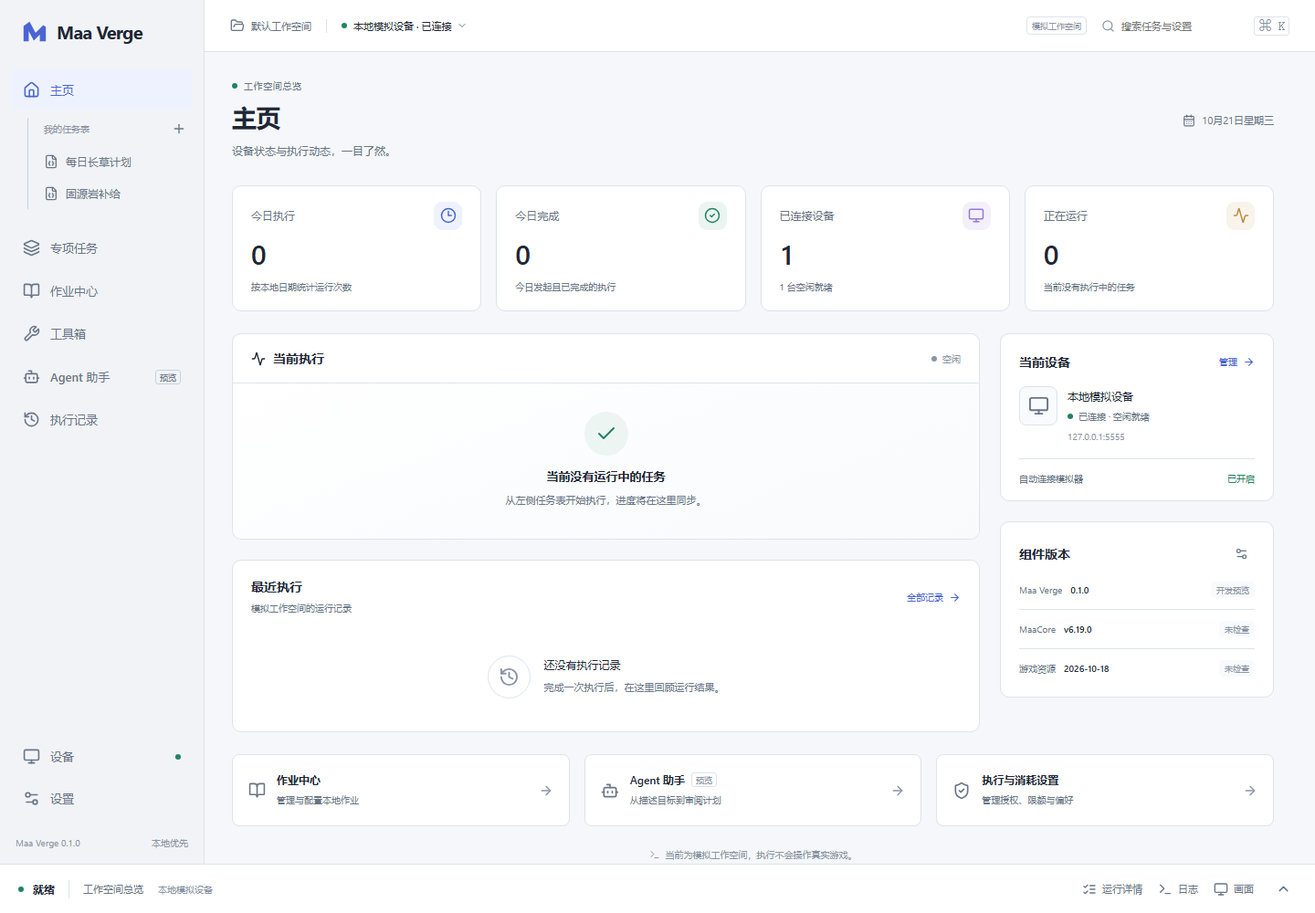
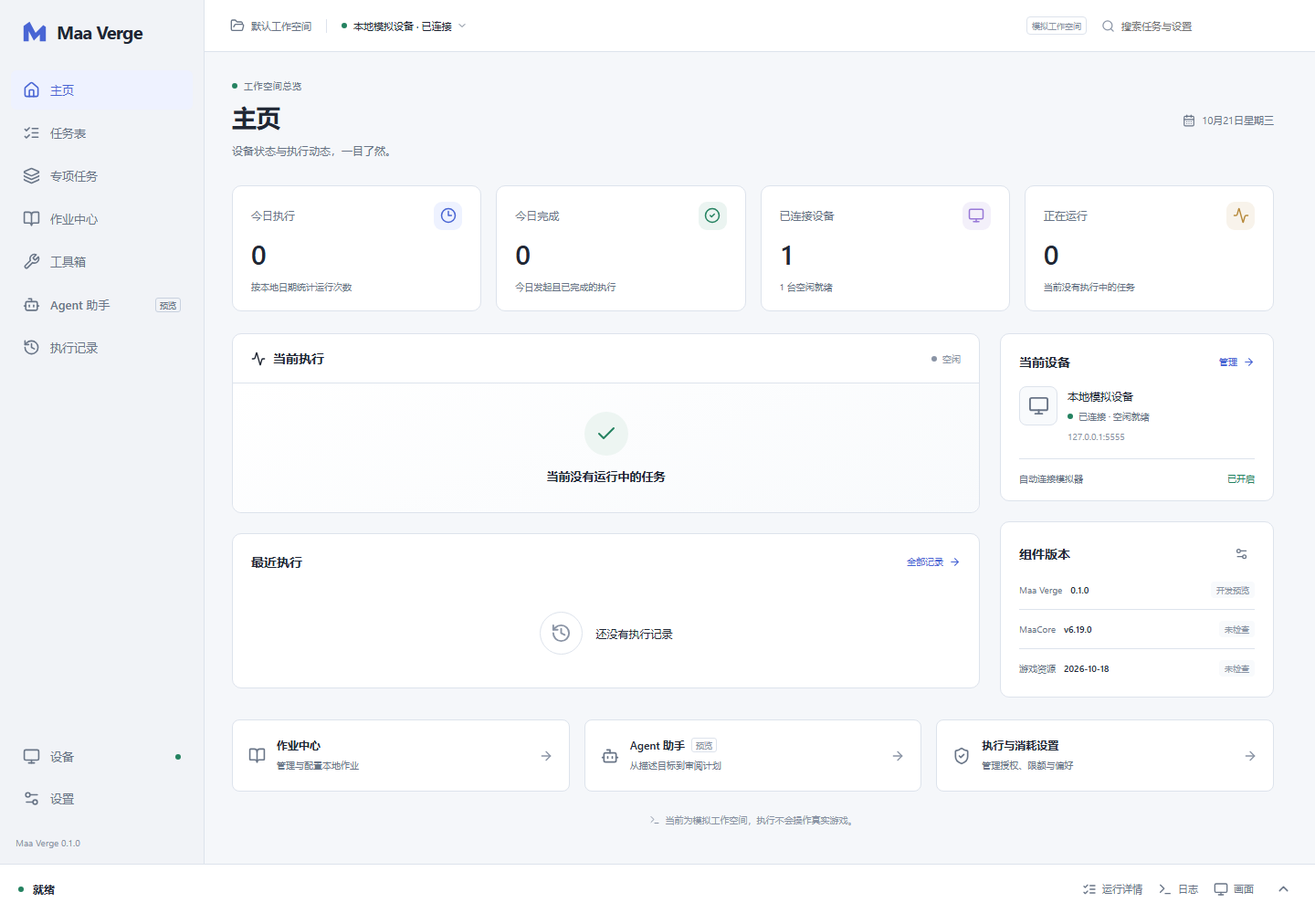
refactor(ui): simplify home copy and separate task navigation

diff --git a/apps/desktop/src/App.tsx b/apps/desktop/src/App.tsx
@@ -10,7 +10,7 @@ type Page = 'home' | 'daily' | 'specialized' | 'copilot' | 'tools' | 'agent' | '
 type Group = 'daily' | 'specialized';
 type Message = { id: string; role: 'user' | 'assistant'; text: string; plan?: Plan };
 const navigation = [
-  { id: 'home', label: '主页', icon: House }, { id: 'specialized', label: '专项任务', icon: Layers },
+  { id: 'home', label: '主页', icon: House }, { id: 'daily', label: '任务表', icon: ListChecks }, { id: 'specialized', label: '专项任务', icon: Layers },
   { id: 'copilot', label: '作业中心', icon: BookOpen }, { id: 'tools', label: '工具箱', icon: Wrench },
   { id: 'agent', label: 'Agent 助手', icon: Bot }, { id: 'history', label: '执行记录', icon: History },
 ] as const;
@@ -172,10 +172,10 @@ export default function App() {
   return <div className={`app-root ${sidebarOpen ? 'nav-open' : ''}`} data-desktop-platform={platform || undefined}>
     {sidebarOpen && <button className="nav-scrim" aria-label="关闭导航" onClick={() => setSidebarOpen(false)} />}
     <aside className="sidebar"><Brand /><nav aria-label="主导航" className="primary-nav">{navigation.map(({ id, label, icon: Icon }) => <div className="nav-group" key={id}>
-      <button className={`nav-item ${page === id || (id === 'home' && page === 'daily') ? 'active' : ''}`} aria-current={page === id || (id === 'home' && page === 'daily') ? 'page' : undefined} onClick={() => navigate(id)}><Icon size={19} /><span>{label}</span>{id === 'agent' && <span className="subtle-tag">预览</span>}</button>
-      {(id === 'home' && (page === 'home' || page === 'daily') || id === 'specialized' && page === id) && <div className="sidebar-task-section"><div className="sidebar-section-label"><span>{id === 'home' ? '我的任务表' : '专项任务表'}</span><button className="icon-button" aria-label="添加任务表" title="添加任务表" onClick={() => createPlan(id === 'home' ? 'daily' : 'specialized')}><Plus size={16} /></button></div><div className="sidebar-plans">{snapshot.plans.filter((item) => (item.group || 'daily') === (id === 'home' ? 'daily' : 'specialized')).map((plan) => <div className={`sidebar-plan ${page !== 'home' && selectedPlan?.id === plan.id && !newGroup && !proposal ? 'selected' : ''}`} key={plan.id}><button className="sidebar-plan-select" aria-label={`配置任务表${plan.name}`} onClick={() => choosePlan(plan)}><FileJson size={16} /><span>{plan.name}</span>{!plan.enabled && <small>停用</small>}</button><button className="icon-button sidebar-plan-copy" title="复制任务表" aria-label={`复制任务表${plan.name}`} onClick={() => void duplicatePlan(plan)}><Copy size={13} /></button></div>)}</div>{newGroup === (id === 'home' ? 'daily' : 'specialized') && <div className="new-plan-marker"><Plus size={14} />新任务表 · 未保存</div>}{!snapshot.plans.some((item) => (item.group || 'daily') === (id === 'home' ? 'daily' : 'specialized')) && !newGroup && <p className="sidebar-hint">添加一张任务表开始</p>}</div>}
-    </div>)}</nav><div className="sidebar-bottom"><button className={`nav-item ${page === 'devices' ? 'active' : ''}`} aria-current={page === 'devices' ? 'page' : undefined} onClick={() => navigate('devices')}><Monitor size={19} /><span>设备</span><span className={`status-dot ${!device || device.state === 'offline' ? 'offline' : ''}`} /></button><button className={`nav-item ${page === 'settings' ? 'active' : ''}`} aria-current={page === 'settings' ? 'page' : undefined} onClick={() => navigate('settings')}><Settings2 size={19} /><span>设置</span>{snapshot.updates.some((item) => item.status === 'available') && <span className="update-dot" />}</button><div className="sidebar-footer"><span>Maa Verge 0.1.0</span><span>本地优先</span></div></div></aside>
-    <div className="main-shell"><header className="topbar" data-tauri-drag-region="deep"><div className="workspace-context"><button className="icon-button mobile-menu" aria-label="打开导航" onClick={() => setSidebarOpen(true)}><Menu size={20} /></button><span className="workspace-name"><FolderOpen size={16} />默认工作空间</span><span className="context-divider" /><div className="device-selector" data-tauri-drag-region="false"><span className={`status-dot ${!device || device.state === 'offline' ? 'offline' : ''}`} /><select aria-label="选择设备" value={selectedDevice} onChange={(event) => setSelectedDevice(event.target.value)}><option value="">未连接设备</option>{snapshot.devices.map((item) => <option value={item.id} key={item.id}>{item.name} · {item.state === 'offline' ? '离线' : item.state === 'running' ? '执行中' : '已连接'}</option>)}</select><ChevronDown size={12} /></div></div><div className="topbar-actions"><span className="environment-badge">{snapshot.mode === 'mock' ? '模拟工作空间' : '本地运行'}</span><div className="global-search" data-tauri-drag-region="false"><Search size={15} /><input ref={searchInput} aria-label="搜索任务与设置" placeholder="搜索任务与设置" value={search} onFocus={() => setSearchOpen(true)} onChange={(event) => { setSearch(event.target.value); setSearchOpen(true); }} onKeyDown={(event) => { if (event.key === 'Enter' && searchResults[0]) { searchResults[0].open(); setSearchOpen(false); } }} /><kbd>⌘ K</kbd>{searchOpen && search.trim() && <><button className="search-dismiss" aria-label="关闭搜索结果" onClick={() => setSearchOpen(false)} /><div className="search-results" role="region" aria-label="搜索结果">{searchResults.length ? searchResults.map((item) => <button key={item.key} onClick={() => { item.open(); setSearchOpen(false); }}><Search size={14} /><span>{item.title}<small>{item.location}</small></span><ArrowRight size={14} /></button>) : <p>没有找到匹配项，试试“更新”或任务名称。</p>}</div></>}</div><WindowControls /></div></header>
+      <button className={`nav-item ${page === id ? 'active' : ''}`} aria-current={page === id ? 'page' : undefined} onClick={() => navigate(id)}><Icon size={19} /><span>{label}</span>{id === 'agent' && <span className="subtle-tag">预览</span>}</button>
+      {((id === 'daily' || id === 'specialized') && page === id) && <div className="sidebar-task-section"><div className="sidebar-section-label"><span>{id === 'daily' ? '我的任务表' : '专项任务表'}</span><button className="icon-button" aria-label="添加任务表" title="添加任务表" onClick={() => createPlan(id === 'daily' ? 'daily' : 'specialized')}><Plus size={16} /></button></div><div className="sidebar-plans">{snapshot.plans.filter((item) => (item.group || 'daily') === (id === 'daily' ? 'daily' : 'specialized')).map((plan) => <div className={`sidebar-plan ${selectedPlan?.id === plan.id && !newGroup && !proposal ? 'selected' : ''}`} key={plan.id}><button className="sidebar-plan-select" aria-label={`配置任务表${plan.name}`} onClick={() => choosePlan(plan)}><FileJson size={16} /><span>{plan.name}</span>{!plan.enabled && <small>停用</small>}</button><button className="icon-button sidebar-plan-copy" title="复制任务表" aria-label={`复制任务表${plan.name}`} onClick={() => void duplicatePlan(plan)}><Copy size={13} /></button></div>)}</div>{newGroup === (id === 'daily' ? 'daily' : 'specialized') && <div className="new-plan-marker"><Plus size={14} />新任务表 · 未保存</div>}{!snapshot.plans.some((item) => (item.group || 'daily') === (id === 'daily' ? 'daily' : 'specialized')) && !newGroup && <p className="sidebar-hint">添加一张任务表开始</p>}</div>}
+    </div>)}</nav><div className="sidebar-bottom"><button className={`nav-item ${page === 'devices' ? 'active' : ''}`} aria-current={page === 'devices' ? 'page' : undefined} onClick={() => navigate('devices')}><Monitor size={19} /><span>设备</span><span className={`status-dot ${!device || device.state === 'offline' ? 'offline' : ''}`} /></button><button className={`nav-item ${page === 'settings' ? 'active' : ''}`} aria-current={page === 'settings' ? 'page' : undefined} onClick={() => navigate('settings')}><Settings2 size={19} /><span>设置</span>{snapshot.updates.some((item) => item.status === 'available') && <span className="update-dot" />}</button><div className="sidebar-footer"><span>Maa Verge 0.1.0</span></div></div></aside>
+    <div className="main-shell"><header className="topbar" data-tauri-drag-region="deep"><div className="workspace-context"><button className="icon-button mobile-menu" aria-label="打开导航" onClick={() => setSidebarOpen(true)}><Menu size={20} /></button><span className="workspace-name"><FolderOpen size={16} />默认工作空间</span><span className="context-divider" /><div className="device-selector" data-tauri-drag-region="false"><span className={`status-dot ${!device || device.state === 'offline' ? 'offline' : ''}`} /><select aria-label="选择设备" value={selectedDevice} onChange={(event) => setSelectedDevice(event.target.value)}><option value="">未连接设备</option>{snapshot.devices.map((item) => <option value={item.id} key={item.id}>{item.name} · {item.state === 'offline' ? '离线' : item.state === 'running' ? '执行中' : '已连接'}</option>)}</select><ChevronDown size={12} /></div></div><div className="topbar-actions"><span className="environment-badge">{snapshot.mode === 'mock' ? '模拟工作空间' : '本地运行'}</span><div className="global-search" data-tauri-drag-region="false"><Search size={15} /><input ref={searchInput} aria-label="搜索任务与设置" placeholder="搜索任务与设置" value={search} onFocus={() => setSearchOpen(true)} onChange={(event) => { setSearch(event.target.value); setSearchOpen(true); }} onKeyDown={(event) => { if (event.key === 'Enter' && searchResults[0]) { searchResults[0].open(); setSearchOpen(false); } }} />{searchOpen && search.trim() && <><button className="search-dismiss" aria-label="关闭搜索结果" onClick={() => setSearchOpen(false)} /><div className="search-results" role="region" aria-label="搜索结果">{searchResults.length ? searchResults.map((item) => <button key={item.key} onClick={() => { item.open(); setSearchOpen(false); }}><Search size={14} /><span>{item.title}<small>{item.location}</small></span><ArrowRight size={14} /></button>) : <p>没有找到匹配项，试试“更新”或任务名称。</p>}</div></>}</div><WindowControls /></div></header>
     <main className="main-content" aria-label={pageNames[page]}><div className="page-transition" key={page}>{error && <div className="error-banner" role="alert"><Wifi size={16} /><span>本地服务连接异常：{error}</span><button className="text-button" onClick={() => void refresh()}>重试</button></div>}
       {page === 'home' && <HomeDashboard snapshot={snapshot} selectedDevice={selectedDevice} stopping={pending.has(`stop-${dockRun?.id}`)} onStopRun={(run) => { void stopRun(run); }} onShowRun={(run) => { setSelectedRunId(run.id); setRunPanel('progress'); }} onNavigate={(next) => { navigate(next); if (next === 'settings') setPageSearch('执行与消耗'); }} onUpdates={() => { navigate('settings'); setPageSearch('更新'); }} />}
       {(page === 'daily' || page === 'specialized') && (editorPlan ? <PlanEditor key={editorKey} plan={editorPlan} devices={snapshot.devices} settings={snapshot.settings} initialGroup={group} focusTaskType={focusTaskType} focusTaskIndex={focusTaskIndex} initialParams={initialParams} unsaved={editorPlan === proposal} searchQuery={pageSearch} running={activeRuns.some((run) => run.planId === (editorPlan === 'new' ? '' : editorPlan.id))} onSave={savePlan} onStart={startPlan} onSaved={(plan) => { if (navigationRevision.current !== editorRevision) return; setSelectedPlanId(plan.id); setNewGroup(null); setProposal(null); setFocusTaskType(undefined); setFocusTaskIndex(undefined); setInitialParams(undefined); if (plan.group !== page) setPage(plan.group); try { localStorage.setItem('maaverge:ui:selected-plan', plan.id); } catch { /* Selection only. */ } }} onClose={() => { navigationRevision.current++; setNewGroup(null); setProposal(null); }} onDelete={(plan) => setDeleting(plan)} /> : <Empty icon={<ListChecks size={30} />} title={group === 'daily' ? '创建第一张日常任务表' : '为专项任务建一张表'} text={group === 'daily' ? '把启动游戏、基建、公招与作战按顺序安排好。' : '为集成战略、生息演算或干员养成分别保存配置。'} action={<button className="button primary" onClick={() => createPlan(group)}><Plus size={16} />新建任务表</button>} />)}
@@ -188,7 +188,7 @@ export default function App() {
       {runPanel === 'logs' && (relevantEvents.length ? <div className="event-log">{relevantEvents.map((event) => <div key={event.id}><time>{time(event.createdAt)}</time><code>{event.type}</code><span>{event.message}</span>{Object.keys(event.data).length > 0 && <details><summary>事件数据</summary><pre>{JSON.stringify(event.data, null, 2)}</pre></details>}</div>)}</div> : <Empty icon={<Terminal size={24} />} title="暂无运行事件" text="连接、保存、执行与更新的事件会显示在这里。" />)}
       {runPanel === 'preview' && <Empty icon={<Monitor size={26} />} title="画面预览尚未接入" text="当前可通过运行详情与日志查看执行状态。" />}
     </div></section>}
-    <footer className={`run-dock ${dockRun ? 'is-running' : ''}`} aria-label="执行状态栏"><button className="dock-status" onClick={() => setRunPanel(runPanel === 'progress' ? null : 'progress')}>{dockRun ? <LoaderCircle size={17} className="spin" /> : <span className={`status-dot ${!device || device.state === 'offline' ? 'offline' : ''}`} />}<strong>{dockRun ? '执行中' : device && device.state !== 'offline' ? '就绪' : '等待连接'}</strong><span className="dock-divider" /><span className="dock-message">{dockRun ? dockRun.message : page === 'home' ? '工作空间总览' : selectedPlan?.name || pageNames[page]}<small>{dockRun ? `任务进度 ${dockRun.progress}%` : device?.name || '请连接模拟器或设备'}</small></span></button><div className="dock-actions">{dockRun && <button className="button danger dock-stop" disabled={pending.has(`stop-${dockRun.id}`)} onClick={() => void stopRun(dockRun)}><Square size={12} />停止执行</button>}<button className={runPanel === 'progress' ? 'selected' : ''} onClick={() => setRunPanel(runPanel === 'progress' ? null : 'progress')}><ListChecks size={16} /><span>运行详情</span></button><button className={runPanel === 'logs' ? 'selected' : ''} onClick={() => setRunPanel(runPanel === 'logs' ? null : 'logs')}><Terminal size={16} /><span>日志</span></button><button className={runPanel === 'preview' ? 'selected' : ''} onClick={() => setRunPanel(runPanel === 'preview' ? null : 'preview')}><Monitor size={16} /><span>画面</span></button><button className="icon-button" aria-label={runPanel ? '收起运行面板' : '展开运行面板'} onClick={() => setRunPanel(runPanel ? null : 'progress')}>{runPanel ? <ChevronDown size={17} /> : <ChevronUp size={17} />}</button></div></footer>
+    <footer className={`run-dock ${dockRun ? 'is-running' : ''}`} aria-label="执行状态栏"><button className="dock-status" onClick={() => setRunPanel(runPanel === 'progress' ? null : 'progress')}>{dockRun ? <LoaderCircle size={17} className="spin" /> : <span className={`status-dot ${!device || device.state === 'offline' ? 'offline' : ''}`} />}<strong>{dockRun ? '执行中' : device && device.state !== 'offline' ? '就绪' : '等待连接'}</strong>{(dockRun || page !== 'home') && <><span className="dock-divider" /><span className="dock-message">{dockRun ? dockRun.message : selectedPlan?.name || pageNames[page]}<small>{dockRun ? `任务进度 ${dockRun.progress}%` : device?.name || '请连接模拟器或设备'}</small></span></>}</button><div className="dock-actions">{dockRun && <button className="button danger dock-stop" disabled={pending.has(`stop-${dockRun.id}`)} onClick={() => void stopRun(dockRun)}><Square size={12} />停止执行</button>}<button className={runPanel === 'progress' ? 'selected' : ''} onClick={() => setRunPanel(runPanel === 'progress' ? null : 'progress')}><ListChecks size={16} /><span>运行详情</span></button><button className={runPanel === 'logs' ? 'selected' : ''} onClick={() => setRunPanel(runPanel === 'logs' ? null : 'logs')}><Terminal size={16} /><span>日志</span></button><button className={runPanel === 'preview' ? 'selected' : ''} onClick={() => setRunPanel(runPanel === 'preview' ? null : 'preview')}><Monitor size={16} /><span>画面</span></button><button className="icon-button" aria-label={runPanel ? '收起运行面板' : '展开运行面板'} onClick={() => setRunPanel(runPanel ? null : 'progress')}>{runPanel ? <ChevronDown size={17} /> : <ChevronUp size={17} />}</button></div></footer>
     {deleting && <ConfirmDialog title="删除任务表" onClose={() => setDeleting(null)}><p>确定删除“{deleting.name}”？执行记录会保留。</p><div className="modal-actions"><button className="button secondary" onClick={() => setDeleting(null)}>取消</button><button className="button danger" disabled={pending.has('delete-plan')} onClick={async () => { if (await action('delete-plan', () => rpc('plan.delete', { id: deleting.id }), '任务表已删除')) { setDeleting(null); setSelectedPlanId(''); } }}><Trash2 size={15} />删除任务表</button></div></ConfirmDialog>}
     {toast && <div role={toast.error ? 'alert' : 'status'} className={`toast ${toast.error ? 'error' : ''}`}>{toast.error ? <AlertCircle size={17} /> : <Check size={17} />}<span>{toast.text}</span><button className="icon-button" aria-label="关闭提示" onClick={() => setToast(null)}><X size={15} /></button></div>}
   </div>;

diff --git a/apps/desktop/src/HomeDashboard.tsx b/apps/desktop/src/HomeDashboard.tsx
@@ -53,16 +53,16 @@ export default function HomeDashboard({ snapshot, selectedDevice, stopping, onSt
               <div className="run-progress" role="progressbar" aria-label="当前执行进度" aria-valuenow={currentRun.progress} aria-valuemin={0} aria-valuemax={100}><i style={{ width: `${currentRun.progress}%` }} /></div>
               <div className="home-current-actions"><button className="text-button" onClick={() => onShowRun(currentRun)}>查看运行详情<ArrowRight size={13} /></button><button className="button danger" disabled={stopping} onClick={() => onStopRun(currentRun)}><Square size={12} />停止执行</button></div>
               {activeRuns.length > 1 && <button className="text-button" onClick={() => onNavigate('history')}>另有 {activeRuns.length - 1} 项执行，查看全部</button>}
-            </div> : <div className="home-idle"><span className="home-idle-symbol"><Check size={24} /></span><h3>当前没有运行中的任务</h3><p>从左侧任务表开始执行，进度将在这里同步。</p></div>}
+            </div> : <div className="home-idle"><span className="home-idle-symbol"><Check size={24} /></span><h3>当前没有运行中的任务</h3></div>}
           </section>
 
           <section className="home-panel home-recent" aria-label="最近执行">
-            <div className="home-panel-heading"><div><h2>最近执行</h2><p>{snapshot.mode === 'mock' ? '模拟工作空间的运行记录' : '每次执行都有迹可循'}</p></div><button className="text-button" onClick={() => onNavigate('history')}>全部记录<ArrowRight size={13} /></button></div>
+            <div className="home-panel-heading"><h2>最近执行</h2><button className="text-button" onClick={() => onNavigate('history')}>全部记录<ArrowRight size={13} /></button></div>
             {recentRuns.length ? <div className="home-recent-list">{recentRuns.map((run) => <button className="home-recent-row" key={run.id} aria-label={`查看执行${run.id}`} onClick={() => onShowRun(run)}>
               <span className={`home-run-icon ${run.status}`}>{run.status === 'completed' ? <Check size={16} /> : run.status === 'running' ? <LoaderCircle size={16} className="spin" /> : <History size={16} />}</span>
               <span className="home-recent-info"><strong>{snapshot.plans.find((plan) => plan.id === run.planId)?.name || '已删除的任务表'}</strong><small>{run.message}</small></span>
               <span className="home-recent-status"><span className={`pill ${run.status}`}>{runLabels[run.status]}</span><time>{dateTime(run.startedAt)}</time></span><ArrowRight size={14} />
-            </button>)}</div> : <div className="home-empty home-empty-history"><span className="home-empty-history-icon"><History size={23} /></span><div><h3>还没有执行记录</h3><p>完成一次执行后，在这里回顾运行结果。</p></div></div>}
+            </button>)}</div> : <div className="home-empty home-empty-history"><span className="home-empty-history-icon"><History size={23} /></span><h3>还没有执行记录</h3></div>}
           </section>
         </div>
 

diff --git a/apps/desktop/src/home-dashboard.css b/apps/desktop/src/home-dashboard.css
@@ -52,8 +52,7 @@
 .home-current .home-panel-heading { border-bottom: 1px solid var(--line); padding-block: 17px; }
 .home-idle { text-align: center; padding: 31px 20px; background: linear-gradient(160deg,var(--surface),var(--surface-subtle)); border-radius: 0 0 10px 10px; }
 .home-idle-symbol { display: inline-flex; align-items: center; justify-content: center; width: 48px; height: 48px; border-radius: 50%; background: color-mix(in srgb,var(--success) 8%,var(--surface)); color: var(--success); }
-.home-idle h3 { font-size: 13px; font-weight: 550; margin: 14px 0 8px; }
-.home-idle p { font-size: 11px; color: var(--muted); line-height: 1.9; margin: 0; }
+.home-idle h3 { font-size: 13px; font-weight: 550; margin: 14px 0 0; }
 .home-current-body { padding: 18px 20px; }
 .home-current-body h3 { font-size: 14px; margin: 0; font-weight: 550; }
 .home-current-body p { font-size: 11px; color: var(--muted); line-height: 1.8; margin: 8px 0 21px; }

diff --git a/apps/desktop/src/styles.css b/apps/desktop/src/styles.css
@@ -775,14 +775,6 @@ textarea.text-input {
   padding: 6px 0;
 }
 
-.global-search kbd {
-  font: 10px/1.5 inherit;
-  white-space: nowrap;
-  border: 1px solid var(--line);
-  border-radius: 3px;
-  padding: 1px 4px;
-}
-
 .search-dismiss {
   position: fixed;
   inset: 57px 0 0;
@@ -1801,9 +1793,6 @@ textarea.text-input {
   }
   .global-search {
     width: 170px;
-  }
-  .global-search kbd {
-    display: none;
   }
   .search-results {
     width: min(350px,calc(100vw - 30px));

diff --git a/docs/STATUS.md b/docs/STATUS.md
@@ -2,14 +2,14 @@
 
 更新日期：2026-10-21。当前为 **0.1.0 开发预览**。工程和首批功能已落地，[PLAN.md](../PLAN.md) 中的完整产品与研究路线尚未全部交付。
 
-默认进入主页仪表盘，汇总今日执行/完成、运行进度、最近记录、设备与三条独立组件版本；主页不包含任务表卡片、数量或新建/启动入口。任务表在侧栏管理，保留页内编排、逐任务设置和常驻运行条。产品显示名为 Maa Verge，GitHub 仓库为 [DeathofBrain/maa-verge](https://github.com/DeathofBrain/maa-verge)。定时、库存保持、社区作业与工具结果等后端缺口仍明确标为未接入，完整原 MAA 兼容继续按功能矩阵验收。
+默认进入主页仪表盘，汇总今日执行/完成、运行进度、最近记录、设备与三条独立组件版本；主页不包含任务表卡片、数量或新建/启动入口，侧栏不展开任务表列表。任务表从独立的“任务表”入口管理，保留页内编排、逐任务设置和常驻运行条。产品显示名为 Maa Verge，GitHub 仓库为 [DeathofBrain/maa-verge](https://github.com/DeathofBrain/maa-verge)。定时、库存保持、社区作业与工具结果等后端缺口仍明确标为未接入，完整原 MAA 兼容继续按功能矩阵验收。
 
 ## 已实现
 
 | 范围 | 当前行为 |
 | --- | --- |
 | 工程与环境 | pnpm workspace、uv/Python 3.12、Cargo/rustup；版本文件、三个依赖锁、跨平台 bootstrap、doctor、AGENTS.md 和贡献说明 |
-| 界面 | 默认主页状态仪表盘、侧栏日常/专项任务表树与三栏编辑工作台、页内分组参数、任务编排/任务表设置/定时计划三页签；作业中心、工具箱、设备、分类设置、Agent 与记录；浅色/深色/跟随系统、侧栏悬停加深与轻量页面/按钮/卡片/运行面板过渡、尊重减少动态效果、窄窗返回路径及常驻运行/日志/停止栏 |
+| 界面 | 默认主页状态仪表盘；独立任务表/专项任务入口，进入后展开对应任务表树与三栏编辑工作台；页内分组参数、任务编排/任务表设置/定时计划三页签；作业中心、工具箱、设备、分类设置、Agent 与记录；浅色/深色/跟随系统、侧栏悬停加深与轻量页面/按钮/卡片/运行面板过渡、尊重减少动态效果、窄窗返回路径及常驻运行/日志/停止栏 |
 | 任务表配置 | 新建/复制/导出任务表，保存说明、日常/专项分组、固定设备和可继承全局的整表限额；同类任务重复/复制/拖动与按钮排序/启停；19类任务常用字段和完整JSON，保留未知参数与无效草稿；草稿在会话内跨页/重载保留，保存与开始行为明确分开 |
 | 通信与数据 | Tauri → Python 换行 JSON-RPC；Pydantic 输出 schema 生成 TypeScript；SQLite 保存计划、运行、设置和事件；请求去重、崩溃后不自动重放结果未知的执行 |
 | Mock | 浏览器与桌面均可在无核心、无模拟器、无模型 Key 的情况下开发；明确模拟状态，支持设备发现/连接/断开、别名去重、表级策略、运行/停止、提案审阅与更新 |
@@ -85,6 +85,12 @@
 - `pnpm check` 通过：契约同步、TypeScript、Python ruff/mypy、202 项 Python 测试及 Rust fmt/clippy/test 编译检查；Rust 无独立业务单元测试。`pnpm -r build` 前端生产构建通过。
 - 28 项 Chromium mock E2E 通过，包含浏览器隐藏窗口按钮、设备选择/搜索交互、加载期间窗口命令、resize 后最大化图标与监听清理、浅深主题的两层背景同步；连续 900/1280/1700px 宽度逐帧采样中，顶栏保持 57px、按钮区保持 56px 高及 138px 宽。这些浏览器测试不替代原生绘制验收。
 - 使用独立标识、数据根和编译 profile 的 Windows 原生 mock 窗口，实测无独立标题栏、顶栏拖动、最大化、双击还原及边缘缩放。验证启用托盘偏好时关窗隐藏且进程驻留，单实例入口恢复窗口；关闭该偏好后正常退出。未连接真实设备、调用付费模型或重新制作发行安装包。
+
+### 本次主页精简验证（Windows x64，2026-10-21）
+
+- 主页侧栏不再展开“我的任务表”，日常任务表改从独立“任务表”入口进入；专项任务入口、已有配置、草稿和新增/复制行为保留。删除搜索快捷键徽标、侧栏“本地优先”、当前执行与最近记录的冗余说明；主页空闲时运行条仅显示就绪/等待连接，运行中的消息、进度和停止操作保留。
+- `pnpm -r build` 前端生产构建通过，28 项 Chromium mock E2E 全部通过；覆盖独立任务表导航、草稿、运行/停止、搜索、设备、预算、更新与九个窄窗入口。另已检查 1440px 浅色/深色和 390px 窄窗截图，确认无横向溢出，Ctrl+K 搜索仍可用且无页面脚本错误；文档中的 mock 主页截图已更新。
+- 本轮仅修改前端并验证 Windows 浏览器 mock，未重复原生窗口/安装包验收或进行其他平台、真实设备及付费模型测试。
 
 ## 尚未实现及边界
 

diff --git a/PLAN.md b/PLAN.md
@@ -124,8 +124,8 @@ flowchart TD
 
 | 页面 | 内容与布局 |
 | --- | --- |
-| 主页，默认 | 仪表盘汇总今日执行/完成、连接设备、正在运行、最近执行与三条独立组件版本；不展示任务表卡片、数量或新建/启动入口，任务表从侧栏管理 |
-| 任务表，主页二级入口 | 侧边栏任务表与新增入口；任务编排、任务表设置、定时计划三个页签。导航/任务队列/逐任务设置三列，支持重复、排序、启停、独立参数和表级预算；定时仍为待实现能力 |
+| 主页，默认 | 仪表盘汇总今日执行/完成、连接设备、正在运行、最近执行与三条独立组件版本；不展示任务表卡片、数量或新建/启动入口，主页侧栏不展开任务表列表 |
+| 任务表 | 独立侧栏入口，进入后展开任务表列表与新增入口；任务编排、任务表设置、定时计划三个页签。导航/任务队列/逐任务设置三列，支持重复、排序、启停、独立参数和表级预算；定时仍为待实现能力 |
 | 专项任务 | 集成战略、生息演算、干员养成等；复用任务表与执行模型 |
 | 作业中心 | 普通/保全/悖论作业的导入、列表、编队、执行结果与离线视频识别 |
 | 工具箱 | 公招计算、仓库/干员结果、库存保持、数据刷新、导出与监控 |
